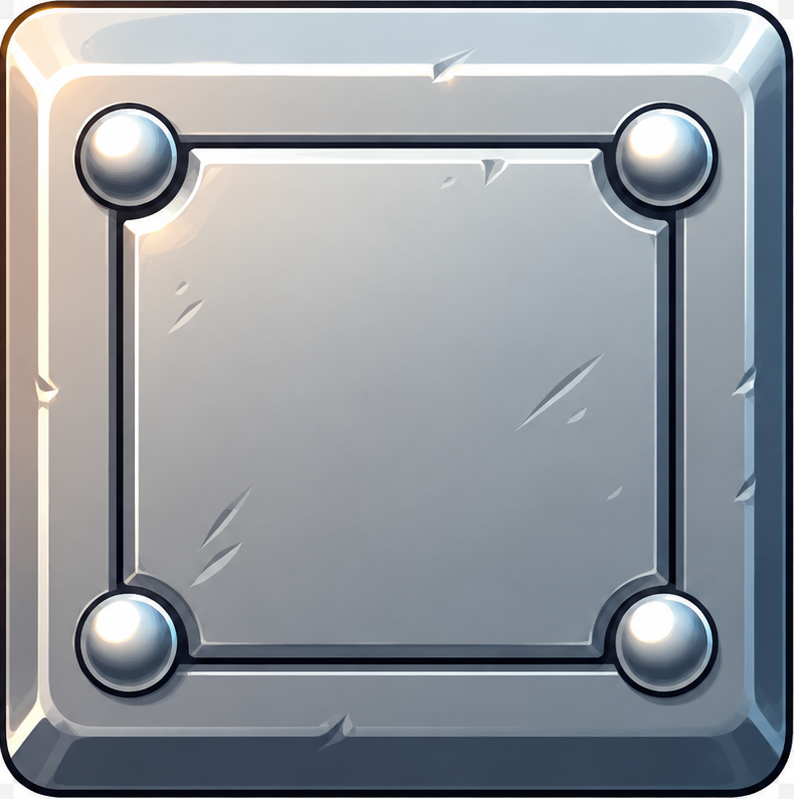
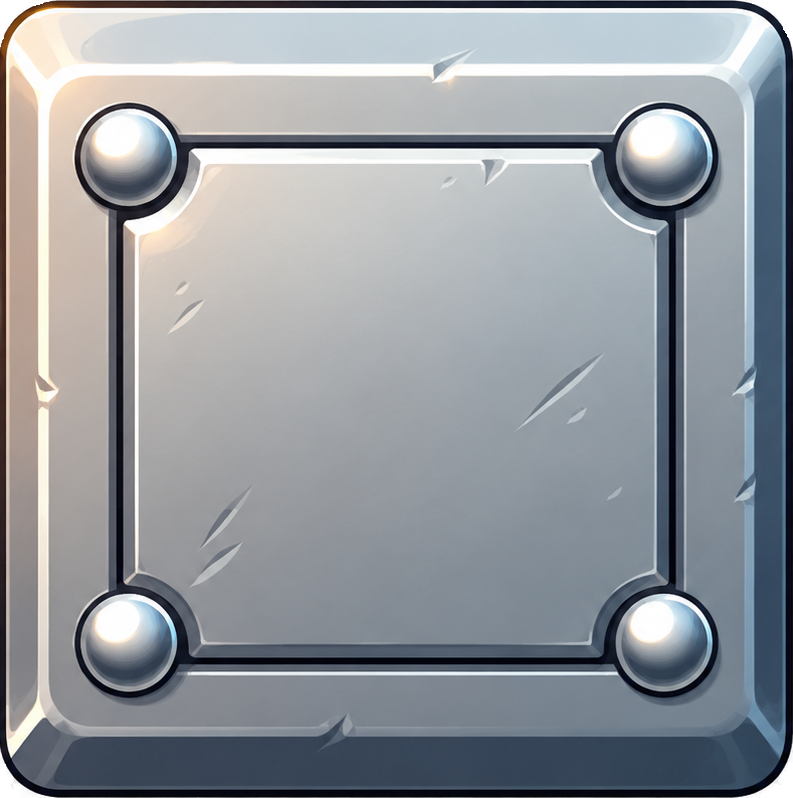
try merge

diff --git a/src/main/java/com/example/finalproject/SpecialController.java b/src/main/java/com/example/finalproject/SpecialController.java
@@ -130,16 +130,15 @@ public class SpecialController {
 //    public static final int SPECIAL_BLOCK = 11;
 
     private final int[][] map = {
-            {5,0,0,0,0,0,0,0,0,0,0,0,0,0,0,0,0,0,0,0,0,0,0,0,0,0,0,0,0,0,0,0,0,0,0,0,0,0,0,0,0,0,0,0,0,0,0,0,0,0,0,0,0,0,0,0,0, 0,0, 0,0,0,0,0,0,0,0,0,0,0 ,0,0,0,0,0,0,0,0,0,0,0,0,0,0,0, 0,0,0,0,0,0,0,0,0,0,0,0,0,5,0,0,0,0,0,0,0,0,0,5},
-            {5,0,0,0,0,0,0,0,0,0,0,0,0,0,0,0,0,0,0,0,0,0,0,0,0,0,0,0,0,0,0,0,0,0,0,0,0,0,0,0,0,0,0,0,0,0,0,0,0,0,0,0,0,0,0,0,11,0,0, 0,0,0,0,0,0,0,0,0,0,0 ,0,0,0,0,0,0,0,0,0,0,0,0,0,0,0, 0,0,0,0,0,0,0,0,0,0,0,0,0,5,0,0,0,5,0,0,0,0,0,5},
-            {5,0,0,0,0,0,0,0,5,5,5,0,0,0,0,0,0,0,0,0,0,0,0,0,0,0,0,0,0,0,0,0,0,0,0,0,0,0,0,0,0,0,0,0,0,0,0,0,0,0,0,0,0,0,0,0,0, 0,0, 0,0,0,0,0,0,0,0,0,0,10,0,0,0,0,0,0,0,0,0,0,0,0,0,0,0, 0,0,0,0,0,0,0,0,0,0,0,0,0,5,0,5,0,5,0,0,0,0,0,5},
-            {5,0,0,0,0,0,0,0,0,0,0,0,0,0,0,0,0,0,0,0,0,0,0,0,0,0,0,0,0,0,0,0,0,0,0,0,0,0,0,0,0,0,0,0,0,0,0,0,0,0,0,0,0,0,1,0,0, 0,0, 0,0,0,0,0,0,0,0,0,0,5 ,0,0,0,0,0,0,0,0,0,0,0,0,0,0,0, 0,0,0,0,0,0,0,0,0,0,0,0,0,5,0,5,0,5,0,0,9,0,0,5},
-            {5,0,0,0,5,5,0,0,0,0,0,0,0,0,0,0,0,0,0,0,0,0,0,0,0,0,0,0,0,0,0,0,0,0,0,0,0,0,0,0,0,0,0,0,0,0,0,0,0,0,0,0,0,0,0,0,0, 0,0, 0,0,0,0,0,0,0,0,0,5,5 ,5,0,0,0,0,0,0,0,0,0,2,0,0,0,0, 0,0,0,0,0,0,0,0,0,0,0,0,0,5,0,0,0,5,5,5,5,5,5,5},
-            {5,0,0,0,0,0,0,0,5,5,5,5,0,2,0,0,0,0,0,0,0,0,0,6,0,0,0,0,0,0,0,0,0,0,0,0,0,0,0,0,0,0,0,0,0,0,0,0,0,0,0,0,0,0,0,0,0, 0,0, 0,0,0,0,0,0,0,0,5,5,5 ,5,5,0,0,0,0,0,0,0,0,0,0,0,0,0, 0,0,0,0,0,0,0,0,0,0,0,5,0,5,0,5,0,5,0,0,0,0,0,5},
-            {5,0,0,0,0,0,0,0,0,0,0,0,0,0,0,0,0,0,0,0,0,5,0,5,0,0,0,0,0,0,0,0,0,0,0,0,0,0,0,0,0,0,0,0,0,0,0,0,0,0,0,1,0,0,0,0,0, 0,0, 0,0,0,0,0,0,0,5,5,5,5 ,5,5,5,0,0,0,0,0,0,5,0,2,2,2,2, 5,0,0,0,0,0,0,0,0,5,0,5,0,5,0,5,0,5,0,0,0,0,0,5},
-            {5,0,0,0,0,0,0,0,0,0,0,0,0,0,0,0,0,0,0,5,0,5,0,5,0,0,0,0,0,0,0,0,0,0,0,0,0,0,0,0,0,0,0,0,0,0,0,1,0,0,0,0,0,0,0,0,0, 5,11,0,0,0,0,0,0,5,5,5,5,5 ,5,5,5,5,0,0,0,0,0,0,5,0,0,0,0, 5,0,0,0,0,0,0,5,0,5,0,5,0,0,0,0,0,5,0,0,0,0,0,5},
-            {5,1,1,1,1,1,1,1,1,1,1,1,1,0,0,0,1,1,1,1,3,1,1,1,1,1,1,1,1,1,1,1,1,1,1,1,1,1,1,1,0,0,0,1,1,1,1,1,1,1,1,1,1,1,1,1,1, 1,1, 1,1,1,1,1,1,1,1,1,1,1 ,1,1,1,1,1,1,0,0,0,0,1,1,1,1,12,1,1,1,0,0,1,1,1,1,1,1,1,1,1,1,1,1,1,1,1,1,1,1,5}
-    };
+            {5,0,0,0,0,0,0,0,0,0,0,0, 0,0,0,0,0,0,0,0,0,0,0,0,0,0,0,0,0,0,0,0,0,0,0,0,0,0,0,0,0,0,0, 0,0,0,0,0,0,0,0,0,0,0,0,0 ,0,0,0,0,0,0,0,0,0,0,0,0,0,0,0, 0,0,0,0,0,0,0,0,0,0,0,0,0,5,0,0,0,0,0,0,0,0,0,5},
+            {5,0,0,0,0,0,0,0,0,0,0,0, 0,0,0,0,0,0,0,0,0,0,0,0,0,0,0,0,0,0,0,0,0,0,0,0,0,0,0,0,0,0,6, 0,0,0,0,0,0,0,0,0,0,0,0,0 ,0,0,0,0,0,0,0,0,0,0,0,0,0,0,0, 0,0,0,0,0,0,0,0,0,0,0,0,0,5,0,0,0,5,0,0,0,0,0,5},
+            {5,0,0,0,0,0,0,0,0,5,5,0, 0,0,0,0,0,0,0,0,0,0,0,0,0,0,0,0,0,0,0,0,0,0,0,0,0,0,0,0,0,0,0, 0,0,0,0,0,0,0,0,0,0,0,0,10,0,0,0,0,0,0,0,0,0,0,0,0,0,0,0, 0,0,0,0,0,0,0,0,0,0,0,0,0,5,0,5,0,5,0,0,0,0,0,5},
+            {5,0,0,0,0,0,0,0,0,0,0,0, 0,0,0,0,0,0,0,0,0,0,0,0,0,0,0,0,0,0,0,0,0,0,0,0,0,0,0,0,1,0,0, 0,0,0,0,0,0,0,0,0,0,0,0,5 ,0,0,0,0,0,0,0,0,0,0,0,0,0,0,0, 0,0,0,0,0,0,0,0,0,0,0,0,0,5,0,5,0,5,0,0,9,0,0,5},
+            {5,0,0,4,4,0,0,0,0,0,0,0, 0,0,0,0,0,0,0,0,0,0,0,0,0,0,0,0,0,0,0,0,0,0,0,0,0,0,0,0,0,0,0, 0,0,0,0,0,0,0,0,0,0,0,5,5 ,5,0,0,0,0,0,0,0,0,0,2,0,0,0,0, 0,0,0,0,0,0,0,0,0,0,0,0,0,5,0,0,0,5,5,5,5,5,5,5},
+            {5,0,0,0,0,0,0,0,5,5,5,5, 0,2,0,0,0,0,0,0,0,0,0,0,0,0,0,0,0,0,0,0,0,0,0,0,0,0,0,0,0,0,0, 0,0,0,0,0,0,0,0,0,0,5,5,5 ,5,5,0,0,0,0,0,0,0,0,0,0,0,0,0, 0,0,0,0,0,0,0,0,0,0,0,5,0,5,0,5,0,5,0,0,0,0,0,5},
+            {5,0,0,0,0,0,0,0,0,0,0,0, 0,0,0,0,0,0,0,0,0,0,0,0,0,8,0,8,0,0,0,0,0,0,0,0,0,1,0,0,0,0,0, 0,0,0,0,0,0,0,0,0,5,5,5,5 ,5,5,5,0,0,0,0,0,0,5,0,2,2,2,2, 5,0,0,0,0,0,0,0,0,5,0,5,0,5,0,5,0,5,0,0,0,0,0,5},
+            {5,0,0,0,0,0,0,0,0,0,0,12,0,0,0,0,0,0,0,0,0,0,0,5,8,8,8,5,0,0,0,0,0,1,0,0,0,0,0,0,0,0,0, 5,6,0,0,0,0,0,0,5,5,5,5,5 ,5,5,5,5,0,0,0,0,0,0,5,0,0,0,0, 5,0,0,0,0,0,0,5,0,5,0,5,0,0,0,0,0,5,0,0,0,0,0,5},
+            {5,1,1,1,1,1,1,1,1,1,1,1, 1,0,0,0,3,1,1,1,1,1,1,1,1,1,1,1,1,1,0,0,0,0,0,0,0,0,0,0,0,0,0, 0,0,0,0,1,1,1,1,1,1,1,1,1 ,1,1,1,1,1,1,0,0,0,0,1,1,1,1,12,1,1,1,0,0,1,1,1,1,1,1,1,1,1,1,1,1,1,1,1,1,1,1,5}};
     private int[][] moveMap = new int[map.length][];
 
     // ================= 初始化 =================
